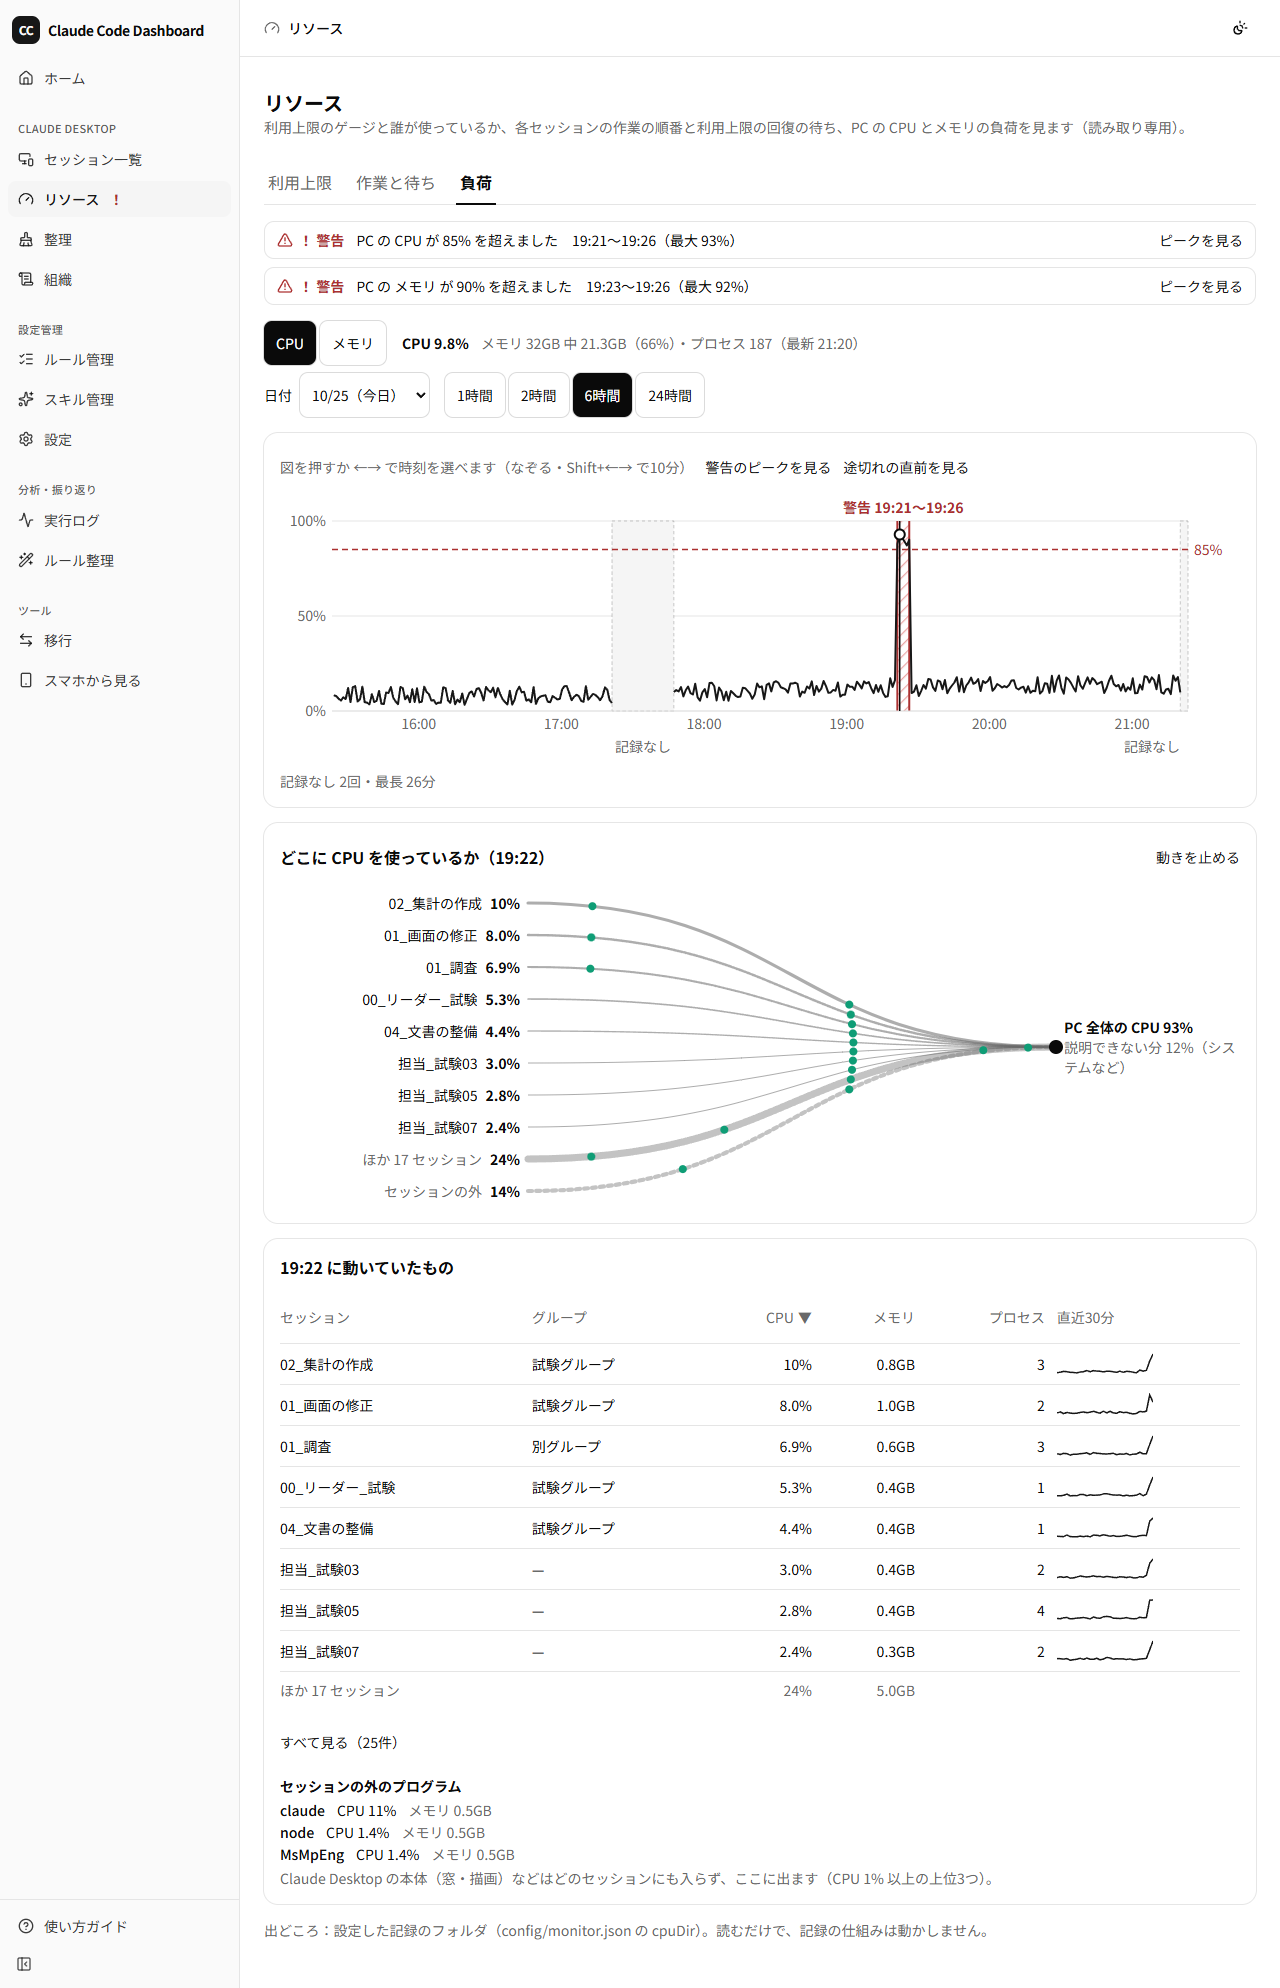
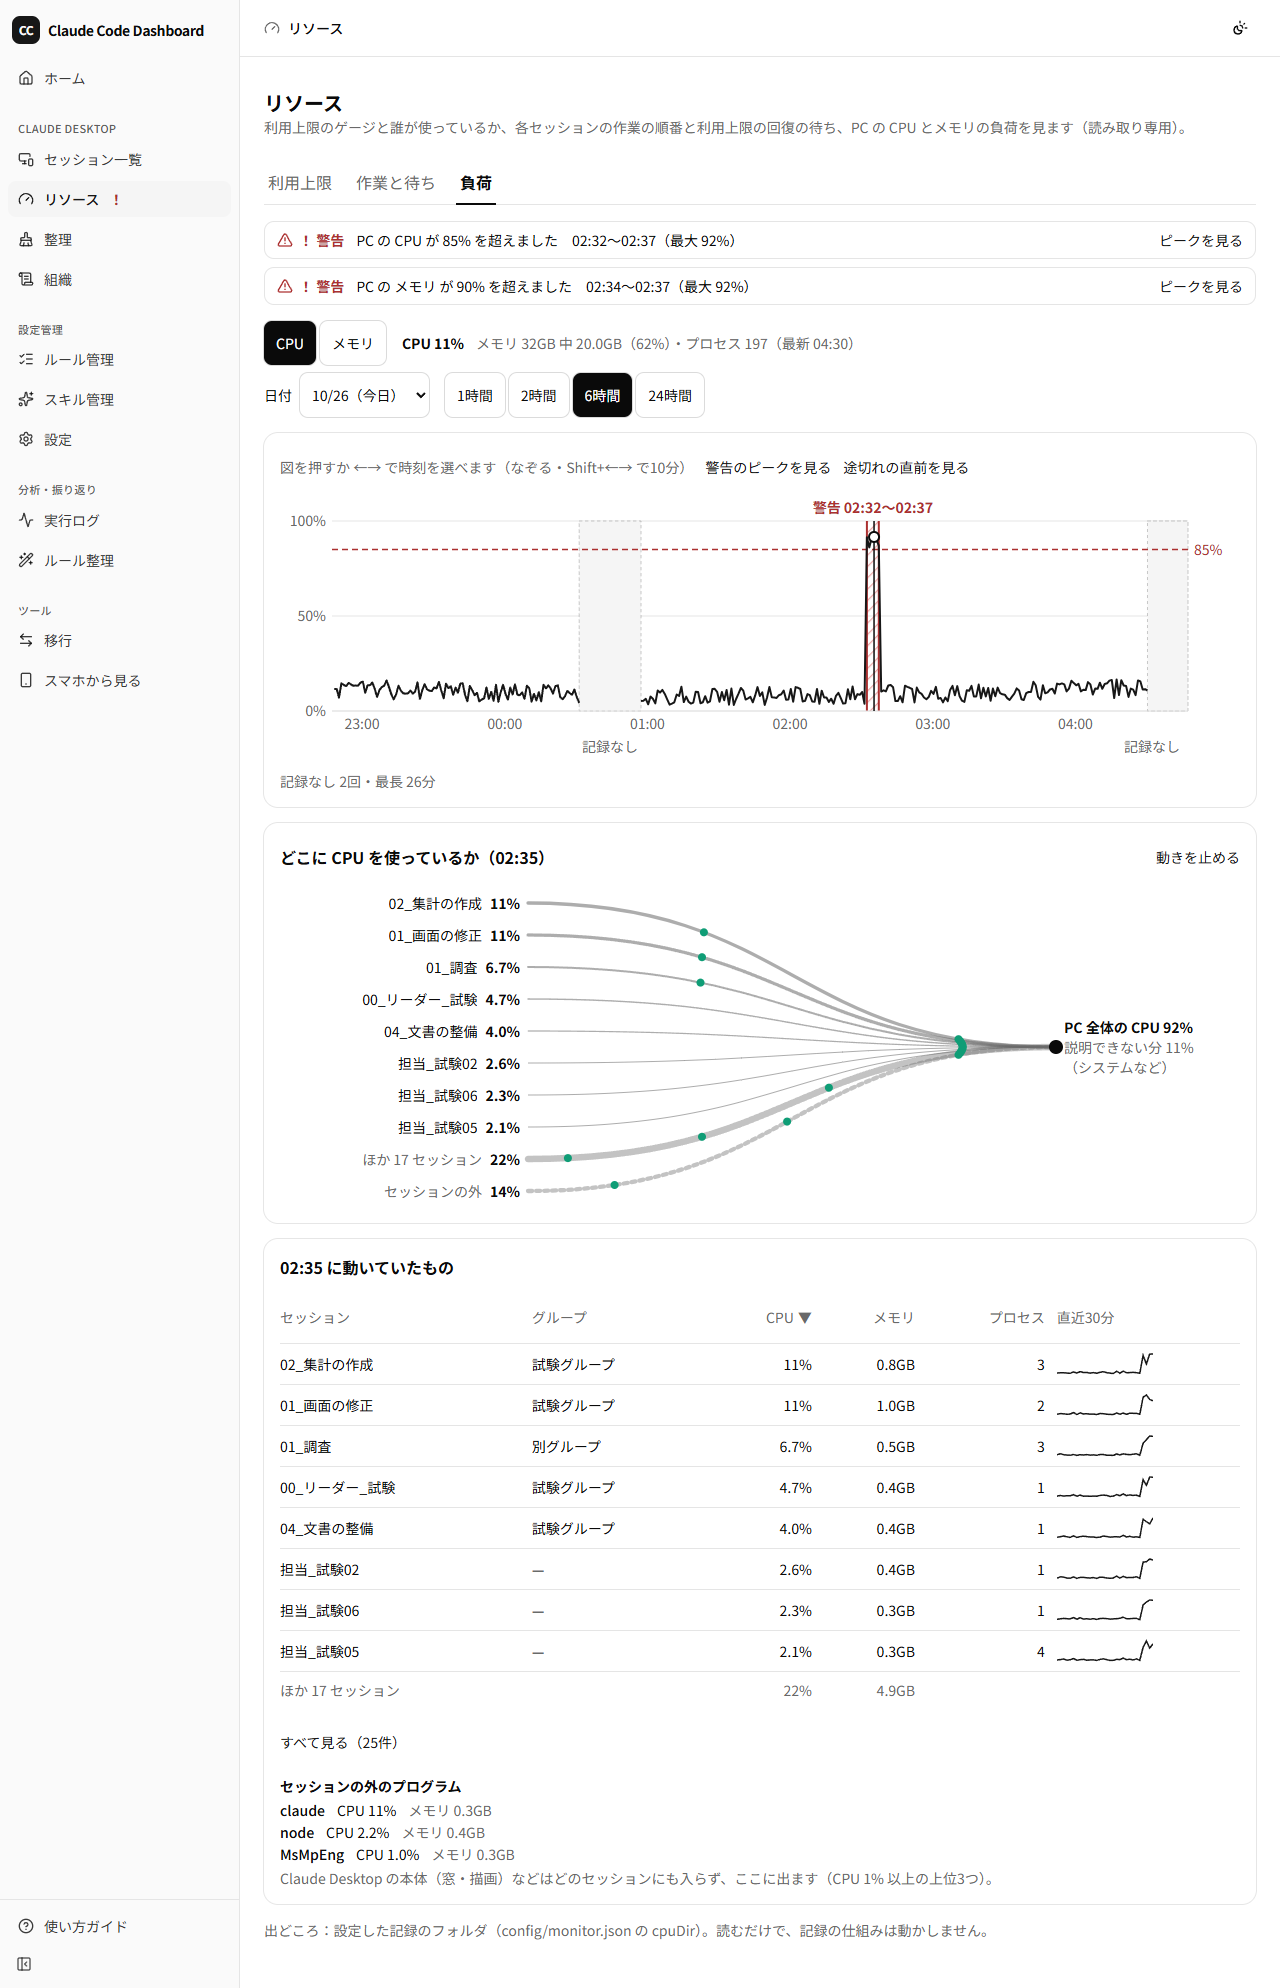
fix(指示49): ⑭ のゲート2 の指摘を直す（M1・M2・L1〜L5）
- M1：スマホへ返す応答の、会話から取った文の項目（要対応の抜粋・最新の指示・作業の文・判断の根拠など）にも秘密の伏せをかける
- M2：-p・-a の伏せを、文章の中（「`…`」「（…）」「：」の後ろ）とパスつきのコマンド名でも効くようにし、redis-cli --pass も伏せる。
  「mysql の -p は値を取る」のような文の続きは伏せない
- L1：CPU の記録の読み足しを、同じファイルは1本ずつにする（同時に来た要求が同じ追記を二重に読まない）
- L2：見張りの API 4本に、LAN の入り口を通った要求を断る処理を重ねる
- L3：つながりの図の粒を、requestAnimationFrame の毎フレームの間引きでなく、タイマーで30回／秒まで描く
- L4：［CPU］［メモリ］を切り替えても、選んでいる時刻を変えない
- L5：「説明できない分」の行を語の区切りで折る。手引きの画像 09c-load を撮り直した

要件: ND-15, ND-14, WC-3, WC-10, WC-13, WC-11

diff --git a/src/components/resources/ConnectionFlow.tsx b/src/components/resources/ConnectionFlow.tsx
@@ -1,7 +1,7 @@
 "use client"
 
 import { useEffect, useRef, useState, useSyncExternalStore } from "react"
-import { buildFlow, lapMs, MAX_FPS, shouldAnimate, type FlowModel } from "@/lib/monitor/connectionFlow"
+import { buildFlow, frameWait, lapMs, shouldAnimate, type FlowModel } from "@/lib/monitor/connectionFlow"
 import { hhmm, pct, type Metric } from "@/lib/monitor/loadView"
 import type { MonitorSnapshotResponse } from "@/lib/monitor/monitorTypes"
 
@@ -26,7 +26,7 @@ function subscribeHidden(listener: () => void) {
 /**
  * つながりの図「どこに CPU を使っているか」(⑭ WC-13)。左にセッションの点(名前と %)、右に PC 全体の点。
  * 線の太さと、線を流れる粒の数・速さが、PC 全体に対する割合。セッションの外は点線。数は必ず文字でも出す。
- * 粒は requestAnimationFrame で 30回／秒まで動かし、動きを減らす設定・［動きを止める］・窓が隠れている・図が画面の外のときは止める(A21)。
+ * 粒は setTimeout で 30回／秒まで動かし、動きを減らす設定・［動きを止める］・窓が隠れている・図が画面の外のときは止める(A21)。
  */
 export function ConnectionFlow({ snap, metric }: { snap: MonitorSnapshotResponse; metric: Metric }) {
   const model = buildFlow(snap, metric)
@@ -90,7 +90,7 @@ export function ConnectionFlow({ snap, metric }: { snap: MonitorSnapshotResponse
           <p className="font-semibold">
             PC 全体の {what} {pct(model.total)}
           </p>
-          <p className="text-muted-foreground" data-testid="flow-unexplained">
+          <p className="text-muted-foreground [word-break:auto-phrase]" data-testid="flow-unexplained">
             説明できない分 {pct(model.unexplained)}（システムなど）
           </p>
         </div>
@@ -127,23 +127,21 @@ function FlowLines({ model, width, height, animate }: { model: FlowModel; width:
         dots.push({ el, path, offset: i / n.particles, len })
       }
     }
-    let raf = 0
-    let last = 0
+    let timer = 0
     const start = performance.now()
-    const tick = (now: number) => {
-      raf = requestAnimationFrame(tick)
-      if (now - last < 1000 / MAX_FPS) return
-      last = now
+    const tick = () => {
+      const now = performance.now()
       const phase = ((now - start) % lap) / lap
       for (const d of dots) {
         const p = d.path.getPointAtLength((((phase + d.offset) % 1) * d.len))
         d.el.setAttribute("cx", p.x.toFixed(1))
         d.el.setAttribute("cy", p.y.toFixed(1))
       }
+      timer = window.setTimeout(tick, frameWait(performance.now(), now))
     }
-    raf = requestAnimationFrame(tick)
+    tick()
     return () => {
-      cancelAnimationFrame(raf)
+      window.clearTimeout(timer)
       group.replaceChildren()
     }
     // signature に数と大きさをまとめている

diff --git a/src/lib/secretMask.ts b/src/lib/secretMask.ts
@@ -13,8 +13,11 @@ const SECRET_NAME = String.raw`(?:password|passwd|passphrase|pwd|token|secret|ap
 const NAME_PART = String.raw`[A-Za-z0-9_-]*`
 /** 値：引用符で囲んだもの、または空白・&・引用符までの続き */
 const VALUE = String.raw`("[^"]*"|'[^']*'|[^\s&"']+)`
-/** -p でパスワードを取るコマンド(行の頭か区切りの後ろ) */
-const PW_COMMAND = String.raw`(?:^|[\s;&|])(?:mysql\w*|mariadb[\w-]*|sshpass|mongo\w*)\b`
+/**
+ * -p でパスワードを取るコマンド。前が英数字・`_`・`-`・`.` でなければよい(文章の中の「`…`」「（…）」「：」の後ろや、
+ * `/usr/bin/mysql`・`C:\…\mysql.exe` のようなパスつきでも効くように。⑭ のゲート2 の M2)
+ */
+const PW_COMMAND = String.raw`(?<![\w.-])(?:mysql\w*|mariadb[\w-]*|sshpass|mongo\w*)(?:\.exe)?\b`
 
 /** 上から順に置き換える。先に「名前つき」の形を伏せ、最後に長い英数字の塊を伏せる */
 const SECRET_PATTERNS: Array<{ pattern: RegExp; replace: string }> = [
@@ -39,9 +42,10 @@ const SECRET_PATTERNS: Array<{ pattern: RegExp; replace: string }> = [
   // -p でパスワードを取るコマンド(mysql・mariadb・sshpass・mongo)の -pパスワード(続けて書く形)と、-p の次の語(数字とポートの形は除く)。
   // ほかのコマンドの -p(rg -p・mkdir -pv・docker -p 8080:80)は値を取らないかポートなので伏せない(ゲート2 の L7)
   { pattern: new RegExp(String.raw`(${PW_COMMAND}[^;&|\n]*?\s-p)(?=\S*[A-Za-z!@#$%^&*'"])\S+`, "g"), replace: `$1${SECRET_MARK}` },
-  { pattern: new RegExp(String.raw`(${PW_COMMAND}[^;&|\n]*?\s-p\s+)(?!\d+(?::\d+)?(?:\s|$))(?!-)\S+`, "g"), replace: `$1${SECRET_MARK}` },
-  // redis-cli の -a パスワード(ゲート2 の L6)
-  { pattern: /((?:^|[\s;&|])redis-cli\b[^;&|\n]*?\s-a\s+)(?!-)\S+/g, replace: `$1${SECRET_MARK}` },
+  // 次の語は英数字・記号で始まるものだけ(「mysql の -p は値を取る」のような文の続きは伏せない)
+  { pattern: new RegExp(String.raw`(${PW_COMMAND}[^;&|\n]*?\s-p\s+)(?!\d+(?::\d+)?(?:\s|$))(?!-)(?=[\x21-\x7e])\S+`, "g"), replace: `$1${SECRET_MARK}` },
+  // redis-cli の -a パスワードと、その別名の --pass(ゲート2 の L6・M2)
+  { pattern: /((?<![\w.-])redis-cli(?:\.exe)?\b[^;&|\n]*?\s(?:-a\s+|--pass(?:\s+|=)))(?!-)\S+/g, replace: `$1${SECRET_MARK}` },
   // DB_PASSWORD=…・SECRET_KEY=…・token: … など(名前の前後に文字が付いてもよい。= か : の右を丸ごと)
   {
     pattern: new RegExp(String.raw`(${NAME_PART}${SECRET_NAME}${NAME_PART}\s*[=:]\s*)${VALUE}`, "gi"),

diff --git a/src/lib/lanAccess/redact.ts b/src/lib/lanAccess/redact.ts
@@ -9,6 +9,8 @@
  * - 次にやる判断(`decision`。⑬)は、問いの文と答えの候補だけを、秘密らしい文字列(maskSecrets)とパスを伏せて返す。
  *   エラーの文は返さない(⑬ の D5・ND-15。LAN は暗号化されない HTTP なので、wrap_up の ask・AskUserQuestion の文も伏せの対象にする。
  *   ゲート2 の L1 で一度外したものを、伏せた形で戻した)
+ * - 会話から取った文の項目(要対応の抜粋・最新の指示の先頭・作業の文・判断の根拠など。SECRET_TEXT_KEYS)も、秘密らしい文字列を伏せる
+ *   (⑭ のゲート2 の M1。問いだけ伏せても、同じ文が要対応の抜粋から漏れるため)。ID は伏せの対象にしない(長い英数字の塊とみなされるため)
  * - そのほかの文字列とオブジェクトのキーの中の、絶対パス(`C:\…`・`\\server\…`・`/Users/…`・`/Volumes/…`・`~\…`・`file:///…`・
  *   `C%3A%5C…` のような URL エンコード・`C--Users-…` のようなパスを `-` でつないだ名前)も隠す
  */
@@ -17,6 +19,8 @@ import { maskSecrets } from "@/lib/secretMask"
 
 const PATH_KEYS = new Set(["cwd", "path"])
 const DROP_KEYS = new Set(["projectDirName"])
+/** 会話から取った文の項目。パスに加えて、秘密らしい文字列も伏せる(⑭ のゲート2 の M1) */
+const SECRET_TEXT_KEYS = new Set(["needsActionExcerpt", "needsActionText", "excerpt", "summary", "content", "currentStep", "statusReason"])
 /** パスから作った名前の項目と、その元のパスの項目。元のパスから作り直す */
 const DERIVED_NAME_KEYS = new Map([["folderName", "cwd"]])
 
@@ -104,6 +108,7 @@ export function redactForLan<T>(value: T): T {
 function walk(value: unknown, key: string | null): unknown {
   if (typeof value === "string") {
     if (key && PATH_KEYS.has(key)) return lastSegment(value) || null
+    if (key && SECRET_TEXT_KEYS.has(key)) return redactString(maskSecrets(value))
     return redactString(value)
   }
   if (Array.isArray(value)) return value.map((v) => walk(v, null))

diff --git a/src/lib/monitor/connectionFlow.test.ts b/src/lib/monitor/connectionFlow.test.ts
@@ -1,7 +1,7 @@
 import { readFileSync } from "node:fs"
 import path from "node:path"
 import { describe, expect, it } from "vitest"
-import { buildFlow, lineWidth, MAX_FPS, MAX_PARTICLES, particleCount, shouldAnimate } from "./connectionFlow"
+import { buildFlow, frameWait, lineWidth, MAX_FPS, MAX_PARTICLES, particleCount, shouldAnimate } from "./connectionFlow"
 import type { MonitorSnapshotResponse, SnapshotSession } from "./monitorTypes"
 
 // 値はどれも合成
@@ -66,8 +66,24 @@ describe("[WC-13] つながりの図(A20・A21・A23・A29)", () => {
     expect(shouldAnimate({ ...base, hidden: true })).toBe(false)
     expect(shouldAnimate({ ...base, onScreen: false })).toBe(false)
     expect(MAX_FPS).toBe(30)
-    // 動かさないときは requestAnimationFrame を呼ばない(effect の最初で返す)
+    // 動かさないときはタイマーを始めない(effect の最初で返す)
     const code = readFileSync(path.resolve(__dirname, "../../components/resources/ConnectionFlow.tsx"), "utf-8")
     expect(code).toMatch(/if \(!animate\) return\s+const lap/)
+  })
+
+  // ⑭ のゲート2 の L3：requestAnimationFrame を使わず、タイマーで 1/30 秒ごとに描く。タイマーが遅れても30回／秒を超えない
+  it.each([0, 1, 4])("粒はタイマーが %dms 遅れても、1秒に30回まで(描くのにかかった時間は次の待ちから引く)", (lateMs) => {
+    let t = 0
+    let draws = 0
+    while (t < 999.99) {
+      draws += 1
+      const drawn = t
+      t = drawn + 0.5 + frameWait(drawn + 0.5, drawn) + lateMs
+    }
+    expect(draws).toBeLessThanOrEqual(30)
+    expect(draws).toBeGreaterThanOrEqual(lateMs === 0 ? 30 : 26)
+    expect(frameWait(100, 0)).toBe(0)
+    const code = readFileSync(path.resolve(__dirname, "../../components/resources/ConnectionFlow.tsx"), "utf-8")
+    expect(code).not.toMatch(/requestAnimationFrame\(/)
   })
 })

diff --git a/src/lib/monitor/monitorService.ts b/src/lib/monitor/monitorService.ts
@@ -145,12 +145,26 @@ export class MonitorService {
     }
   }
 
-  /** その日のファイルを読み足して、記録を返す */
-  private async dayRecords(cpuDir: string, day: string): Promise<{ status: MonitorFileStatus; records: MinuteRecord[]; skipped: number }> {
+  /** ファイルごとの、読み足しの列の最後(同じファイルの読み足しを1本ずつにする) */
+  private readonly reading = new Map<string, Promise<unknown>>()
+
+  /**
+   * その日のファイルを読み足して、記録を返す。読み足しの状態(どこまで読んだか)を要求のあいだで共有するので、
+   * 同じファイルの読み足しは前の読み足しが終わってから始める(⑭ のゲート2 の L1。同時に来た要求が同じ追記を二重に読まないように)
+   */
+  private dayRecords(cpuDir: string, day: string): Promise<{ status: MonitorFileStatus; records: MinuteRecord[]; skipped: number }> {
     const filePath = path.join(cpuDir, `cpu_${day}.tsv`)
-    const { status, state } = await readCpuFile(filePath, this.files.get(filePath))
-    this.files.set(filePath, state)
-    return { status, records: status === "ok" ? state.records() : [], skipped: state.skipped }
+    const run = (this.reading.get(filePath) ?? Promise.resolve()).then(async () => {
+      const { status, state } = await readCpuFile(filePath, this.files.get(filePath))
+      this.files.set(filePath, state)
+      return { status, records: status === "ok" ? state.records() : [], skipped: state.skipped }
+    })
+    const tail = run.catch(() => undefined)
+    this.reading.set(filePath, tail)
+    void tail.then(() => {
+      if (this.reading.get(filePath) === tail) this.reading.delete(filePath)
+    })
+    return run
   }
 
   private hostMem(): number {

diff --git a/src/lib/monitor/workPlan.test.ts b/src/lib/monitor/workPlan.test.ts
@@ -1,6 +1,7 @@
 import { promises as fs } from "fs"
 import os from "os"
 import path from "path"
+import { NextRequest } from "next/server"
 import { afterEach, beforeEach, describe, expect, it, vi } from "vitest"
 import { MonitorService, parseMonitorConfig, readMonitorFile } from "./monitorService"
 import { sessionLabel, summarizePlan, summarizeQueue } from "./workPlan"
@@ -139,5 +140,17 @@ describe("[WC-9] [WC-10] 読むだけ・パスと生の行を返さない(A10・
     expect((await readMonitorFile(path.join(tmp, "none.tsv"))).status).toBe("missing")
     expect((await readMonitorFile(path.join(tmp, ".env"))).status).toBe("refused")
     expect((await readMonitorFile(undefined)).status).toBe("unset")
+  })
+})
+
+describe("[WC-10] 見張りの API はスマホ(LAN の入り口の経由)に出さない(⑭ のゲート2 の L2)", () => {
+  it("入り口の印つきの要求は、記録を読む前に 403", async () => {
+    const { GET: plan } = await import("@/app/api/monitor/plan/route")
+    const { GET: load } = await import("@/app/api/monitor/load/route")
+    const { GET: snapshot } = await import("@/app/api/monitor/snapshot/route")
+    const { GET: alerts } = await import("@/app/api/monitor/alerts/route")
+    const req = (p: string) => new NextRequest(`http://127.0.0.1:3000/api/monitor/${p}`, { headers: { "x-ccd-via-lan": "1" } })
+    const res = await Promise.all([plan(req("plan")), load(req("load?range=1")), snapshot(req("snapshot?at=1")), alerts(req("alerts"))])
+    expect(res.map((r) => r.status)).toEqual([403, 403, 403, 403])
   })
 })

diff --git a/src/components/resources/LoadView.tsx b/src/components/resources/LoadView.tsx
@@ -3,7 +3,7 @@
 import { useState } from "react"
 import { usePersistedState } from "@/hooks/useLocalStorage"
 import { useMonitorLoad, useMonitorSnapshot } from "@/hooks/useMonitor"
-import { beforeGap, emptyText, gapSummary, hhmm, initialTime, memText, pastAlertText, pct, type Metric } from "@/lib/monitor/loadView"
+import { beforeGap, emptyText, gapSummary, hhmm, initialTime, memText, pastAlertText, pct, timeToPinOnMetricSwitch, type Metric } from "@/lib/monitor/loadView"
 import type { MonitorLoadResponse } from "@/lib/monitor/monitorTypes"
 import { ConnectionFlow } from "./ConnectionFlow"
 import { LoadChart } from "./LoadChart"
@@ -44,11 +44,17 @@ export function LoadView({ focus }: { focus: { at: number; nonce: number } | nul
     setPicked({ at: t, focusNonce })
     if (!data.isToday && data.rangeHours < 24) setCenter(t)
   }
+  // ［CPU］［メモリ］を切り替えても、選んでいる時刻は変えない(⑭ のゲート2 の L4)
+  const switchMetric = (m: Metric) => {
+    const pin = timeToPinOnMetricSwitch(selected, inWindow)
+    if (pin !== null) setPicked({ at: pin, focusNonce })
+    setMetric(m)
+  }
 
   return (
     <div className="space-y-4">
       <div className="flex flex-wrap items-center gap-x-6 gap-y-2">
-        <Header data={data} metric={metric} onMetric={setMetric} />
+        <Header data={data} metric={metric} onMetric={switchMetric} />
         <Controls
         data={data}
         onDate={(d) => {

diff --git a/src/lib/monitor/loadView.test.ts b/src/lib/monitor/loadView.test.ts
@@ -6,6 +6,7 @@ import {
   gapSummary,
   homeAlertText,
   initialTime,
+  timeToPinOnMetricSwitch,
   memText,
   pageAlertText,
   sparkLabel,
@@ -45,6 +46,14 @@ describe("[WC-4] 時刻の選び方と表(A4・A25・A27)", () => {
     expect(initialTime(pts, alerts, "mem")).toBe(T0 + 11 * MIN)
     expect(initialTime(pts, { cpu: [], mem: alerts.mem }, "cpu")).toBe(T0 + 11 * MIN)
     expect(initialTime(pts, { cpu: [], mem: [] }, "cpu")).toBe(T0 + 29 * MIN)
+  })
+
+  it("[WC-11] ［CPU］［メモリ］を切り替えても選んだ時刻は動かない。まだ選んでいないときは、今の最初の時刻を選んだことにする(⑭ のゲート2 の L4)", () => {
+    const alerts = { cpu: [band(T0, T0 + 5 * MIN, 90, 85, T0 + 3 * MIN)], mem: [band(T0 + 10 * MIN, T0 + 12 * MIN, 91, 90, T0 + 11 * MIN)] }
+    const first = initialTime(pts, alerts, "cpu")
+    expect(timeToPinOnMetricSwitch(first, null)).toBe(T0 + 3 * MIN)
+    expect(timeToPinOnMetricSwitch(first, T0 + 20 * MIN)).toBeNull()
+    expect(timeToPinOnMetricSwitch(null, null)).toBeNull()
   })
 
   it("表は上位8件と「ほか n」の合計。並びは選んだほう(CPU・メモリ)の多い順", () => {

diff --git a/src/app/api/monitor/snapshot/route.ts b/src/app/api/monitor/snapshot/route.ts
@@ -1,4 +1,5 @@
 import { NextResponse, type NextRequest } from "next/server"
+import { rejectViaLan } from "@/lib/lanAccess/apiGuard"
 import { getMonitorService } from "@/lib/monitor/monitorService"
 
 export const dynamic = "force-dynamic"
@@ -6,8 +7,11 @@ export const dynamic = "force-dynamic"
 /**
  * 選んだ時刻に動いていたもの(⑭ WC-4・WC-13)。?at=<epoch ms>。前後1分の記録のセッションとセッションの外のプログラム。
  * 読み取り専用。パスとファイルの生の行は返さない。
+ * スマホ(LAN の入り口の経由)には出さない(⑭ のゲート2 の L2。入り口の許可リストにも無いが、念のため重ねる)。
  */
 export async function GET(req: NextRequest) {
+  const denied = rejectViaLan(req)
+  if (denied) return denied
   const at = Number(req.nextUrl.searchParams.get("at"))
   if (!Number.isFinite(at) || at <= 0) return NextResponse.json({ error: "時刻の指定が正しくありません" }, { status: 400 })
   try {
